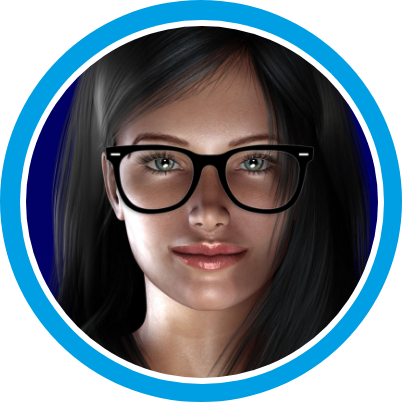
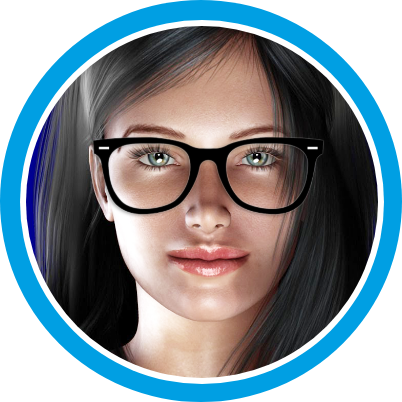
imagen de fondo y nueva asistente

diff --git a/public/index.html b/public/index.html
@@ -30,13 +30,14 @@
                 <img src="./assets/img/img-web.png" alt="foto" class="web">
         </div>
     </div>
-    <div class="container2">
-        <div class="box1"><i class="fas fa-user-tie fa-5x"></i> <p>selección de los mejores candidatos</p></div>
-        <div class="box2"><i class="fas fa-cogs fa-5x"></i><p>Optimización del tiempo y recursos humanos</p></div>
-        <div class="box3"> <i class="fas fa-brain fa-5x"></i><p>Automatización</p></div>
-    </div>
     </main>
-
+    <section class="container2">
+        <div class="row">
+          <div class="col s4"><i class="fas fa-user-tie fa-5x"></i> <p>Selección de los mejores candidatos</p></div>
+          <div class="col s4"><i class="fas fa-cogs fa-5x"></i><p>Optimización del tiempo y recursos humanos</p></div>
+          <div class="col s4"> <i class="fas fa-brain fa-5x"></i><p>Automatización</p></div>
+        </div>
+    </section>
     <script src="https://code.jquery.com/jquery-3.3.1.min.js" integrity="sha256-FgpCb/KJQlLNfOu91ta32o/NMZxltwRo8QtmkMRdAu8="
     crossorigin="anonymous"></script>
   <script src="./assets/materialize-v1.0.0/materialize/js/materialize.min.js"></script>
